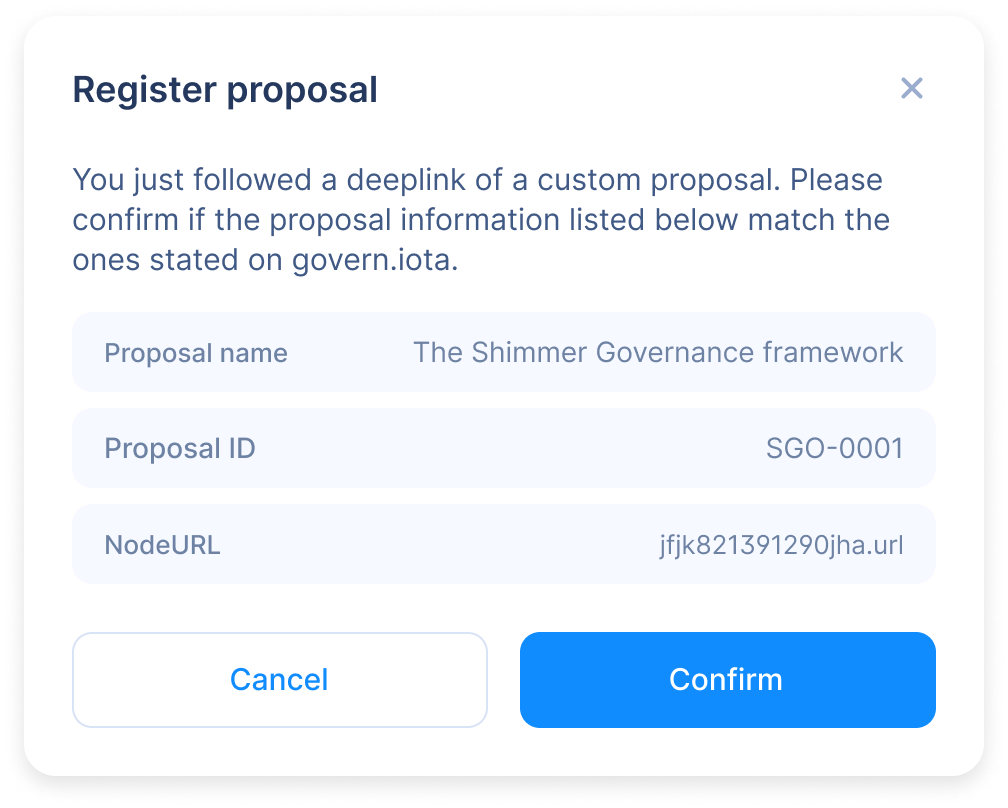
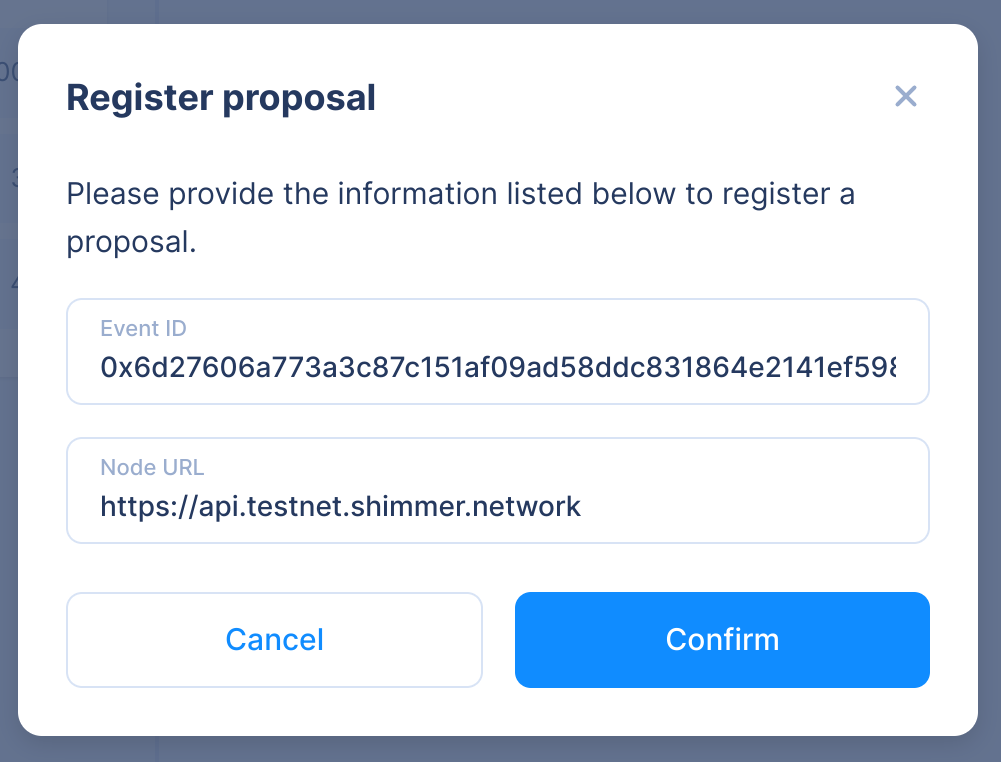
feat: register proposal via deep links (#5500)
* feat: add deep link support for registering proposals

* chore: update docs and logic if proposal is already registered

* fix: check if proposal was registered before

diff --git a/packages/shared/lib/auxiliary/deep-link/handlers/governance/operations/handleDeepLinkRegisterProposalOperation.ts b/packages/shared/lib/auxiliary/deep-link/handlers/governance/operations/handleDeepLinkRegisterProposalOperation.ts
@@ -1,0 +1,35 @@
+import { showAppNotification } from '@auxiliary/notification/actions'
+import { closePopup, openPopup } from '@auxiliary/popup/actions'
+import { isValidUrl } from '@core/utils/validation'
+import { isProposalAlreadyRegistered, isValidProposalId } from '@contexts/governance/utils'
+
+import { RegisterProposalOperationParameter } from '../../../enums'
+
+export function handleDeepLinkRegisterProposalOperation(searchParams: URLSearchParams): void {
+    const eventId = searchParams.get(RegisterProposalOperationParameter.EventId)
+    if (!isValidProposalId(eventId)) {
+        throw new Error('Invalid proposal ID')
+    } else if (isProposalAlreadyRegistered(eventId)) {
+        /**
+         * NOTE: If we throw an error as normal, it will be handled and displayed in the "failed link"
+         * popup.
+         */
+        showAppNotification({
+            type: 'warning',
+            alert: true,
+            message: 'This proposal has already been registered',
+        })
+        closePopup()
+        return
+    }
+
+    const nodeUrl = searchParams.get(RegisterProposalOperationParameter.NodeUrl)
+    if (!isValidUrl(nodeUrl)) {
+        throw new Error('Invalid node URL')
+    }
+
+    openPopup({
+        type: 'registerProposal',
+        props: { eventId, nodeUrl },
+    })
+}

diff --git a/packages/shared/lib/auxiliary/deep-link/handlers/handleDeepLink.ts b/packages/shared/lib/auxiliary/deep-link/handlers/handleDeepLink.ts
@@ -1,14 +1,17 @@
 import { get } from 'svelte/store'
 
-import { addError } from '@core/error'
-import { DashboardRoute, dashboardRouter } from '@core/router'
+import { closePopup, openPopup } from '@auxiliary/popup/actions'
+import { addError } from '@core/error/stores'
+import { visibleActiveAccounts } from '@core/profile/stores'
+import { dashboardRouter } from '@core/router/routers'
+import { DashboardRoute } from '@core/router/enums'
 
 import { resetDeepLink } from '../actions'
 import { DeepLinkContext } from '../enums'
 import { isDeepLinkRequestActive } from '../stores'
+
+import { handleDeepLinkGovernanceContext } from './governance/handleDeepLinkGovernanceContext'
 import { handleDeepLinkWalletContext } from './wallet/handleDeepLinkWalletContext'
-import { closePopup, openPopup } from '@auxiliary/popup'
-import { visibleActiveAccounts } from '@core/profile/stores/active-accounts.store'
 
 /**
  * Parses an IOTA deep link, i.e. a URL that begins with the app protocol i.e "firefly://".
@@ -55,6 +58,10 @@ function handleDeepLinkForHostname(url: URL): void {
         case DeepLinkContext.Wallet:
             get(dashboardRouter).goTo(DashboardRoute.Wallet)
             handleDeepLinkWalletContext(url)
+            break
+        case DeepLinkContext.Governance:
+            get(dashboardRouter).goTo(DashboardRoute.Governance)
+            handleDeepLinkGovernanceContext(url)
             break
         default:
             throw new Error(`Unrecognized context '${url.host}'`)

diff --git a/packages/shared/lib/contexts/governance/utils/isProposalAlreadyRegistered.ts b/packages/shared/lib/contexts/governance/utils/isProposalAlreadyRegistered.ts
@@ -1,0 +1,8 @@
+import { get } from 'svelte/store'
+
+import { proposalsState } from '../stores'
+import { activeProfileId } from '@core/profile'
+
+export function isProposalAlreadyRegistered(proposalId: string): boolean {
+    return proposalId in get(proposalsState)?.[get(activeProfileId)]
+}

diff --git a/packages/shared/lib/auxiliary/deep-link/enums/register-proposal-parameter.enum.ts b/packages/shared/lib/auxiliary/deep-link/enums/register-proposal-parameter.enum.ts
@@ -1,0 +1,7 @@
+/**
+ * The query parameters available in a register proposal operation.
+ */
+export enum RegisterProposalOperationParameter {
+    EventId = 'eventId',
+    NodeUrl = 'nodeUrl',
+}

diff --git a/packages/shared/lib/auxiliary/deep-link/enums/governance-operation.enum.ts b/packages/shared/lib/auxiliary/deep-link/enums/governance-operation.enum.ts
@@ -1,0 +1,6 @@
+/**
+ * The operations available within the governance context.
+ */
+export enum GovernanceOperation {
+    RegisterProposal = 'registerProposal',
+}

diff --git a/packages/shared/lib/contexts/governance/utils/isValidProposalId.ts b/packages/shared/lib/contexts/governance/utils/isValidProposalId.ts
@@ -1,0 +1,5 @@
+import { PROPOSAL_ID_REGEX } from '../constants'
+
+export function isValidProposalId(id: string): boolean {
+    return PROPOSAL_ID_REGEX.test(id)
+}

diff --git a/packages/shared/components/popups/RegisterProposalPopup.svelte b/packages/shared/components/popups/RegisterProposalPopup.svelte
@@ -8,8 +8,8 @@
     import { registerParticipationEvent } from '@core/profile-manager/api'
     import { isValidUrl } from '@core/utils/validation'
 
-    let eventId: string
-    let nodeUrl: string
+    export let eventId: string
+    export let nodeUrl: string
 
     let eventIdError: string
     let nodeUrlError: string

diff --git a/packages/shared/lib/contexts/governance/index.ts b/packages/shared/lib/contexts/governance/index.ts
@@ -1,2 +1,6 @@
 export * from './actions'
+export * from './constants'
+export * from './enums'
+export * from './interfaces'
 export * from './stores'
+export * from './utils'

diff --git a/packages/shared/lib/auxiliary/deep-link/enums/index.ts b/packages/shared/lib/auxiliary/deep-link/enums/index.ts
@@ -1,3 +1,5 @@
 export * from './deep-link-context.enum'
+export * from './governance-operation.enum'
+export * from './register-proposal-parameter.enum'
 export * from './send-operation-parameter.enum'
 export * from './wallet-operation.enum'

diff --git a/packages/shared/lib/auxiliary/deep-link/handlers/index.ts b/packages/shared/lib/auxiliary/deep-link/handlers/index.ts
@@ -1,2 +1,4 @@
+export * from './governance'
 export * from './wallet'
+
 export * from './handleDeepLink'

diff --git a/packages/shared/lib/contexts/governance/utils/index.ts b/packages/shared/lib/contexts/governance/utils/index.ts
@@ -4,5 +4,7 @@ export * from './getNumberOfVotingProposals'
 export * from './getTotalNumberOfProposals'
 export * from './isParticipationOutput'
 export * from './isProposalActive'
+export * from './isProposalAlreadyRegistered'
+export * from './isValidProposalId'
 export * from './isVotingForProposal'
 export * from './isVotingForSelectedProposal'

diff --git a/packages/shared/lib/auxiliary/deep-link/constants/index.ts b/packages/shared/lib/auxiliary/deep-link/constants/index.ts
@@ -1,0 +1,1 @@
+export * from './url-cleanup-regex.constant'